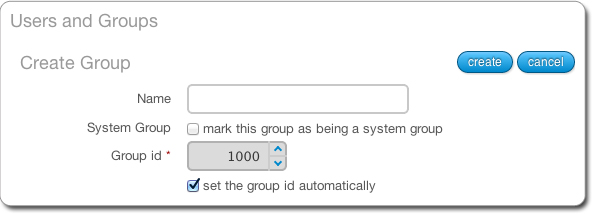
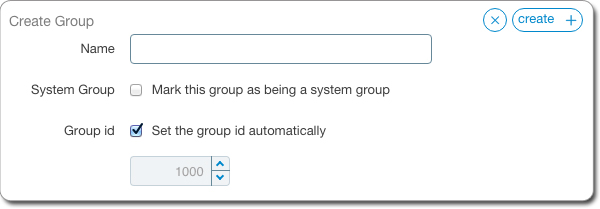
adding the files cherry-picked from 3.5.1 for install profile screen modifs

diff --git a/end-user/en/source/pages/templating/appliance-installprofile.rst b/end-user/en/source/pages/templating/appliance-installprofile.rst
@@ -11,13 +11,20 @@ You can define the following as part of the install profile:
 
 * ``Root User``: The root user password by default is prompted during the first boot of the machine image i.e. ``ask during installation``. However, you can pre-set a root  password. You can all enter an SSH key to allow users to login as root. If you select ``Disable root password login via SSH``, root will still be able to login from the console.
 * ``Users and Groups`` (optional): you can add operating system users and groups. See :ref:`appliance-install-profile-users-groups` for more information
+<<<<<<< HEAD
 * ``Internet Settings``: default is “set automatically”
 * ``Partitioning``: default is “set automatically”. You can modify the disk and swap size for the automatic set up, ask during install, or set up ``Advanced Partitioning`` (for several disks). Note that the swap size should not be set to zero. Rather, it should be deleted. For more information see :ref:`appliance-install-profile-partitioning`.
 * ``Kernel Parameters``. You can add kernel parameters by clicking add and save.
 * ``Keyboard``: default is “ask during installation”
+=======
+* ``Network``: This managed the internet settings. The default is “set automatically”
+* ``Partitioning``: You can modify the disk and swap size for the automatic set up, select ``ask during install``, or set up ``Advanced Partitioning`` (for several disks). For more information see :ref:`appliance-install-profile-partitioning`.
+* ``Kernel``. You can add kernel parameters by clicking plus, entering data and click ``save``.
+* ``Keyboard``: default is “ask during installation”. You can choose ``set automatically`` and select the keyboard from the drop down menu.
+>>>>>>> f885422... adding new screenshots for 3.6 for install profile
 * ``Licenses``: default is “accept licenses during installation”
-* ``Time Zone``: default is “set automatically to London”
-* ``Welcome Message``
+* ``Time Zone``: default is set automatically to London
+* ``Welcome Message``: You can enter a welcome message.
 * ``Services``: Firewall is set to "Off" by default. This parameter allows you to activate or deactivate the firewall present in the filesystem when launching the appliance (regardless of whether the firewall is iptables or other).
 
 .. _appliance-install-profile-users-groups:
@@ -34,7 +41,7 @@ To add a user to an appliance:
 	1. Select the appliance template you want to modify.
 	2. From the ``Stack`` page, click on ``Install Profile`` in the toolbox.
 	3. Select ``Users and Groups``.
-	4. Click ``add``, next to the top table. The ``Create User`` page will be displayed.
+	4. Click the plus symbol next to the ``Users`` table. The ``Create User`` page will be displayed.
 
 	.. image :: /images/install-profile-create-user.jpg
 
@@ -51,12 +58,12 @@ To add a group to an appliance install profile:
 	1. Select the appliance template you want to modify.
 	2. From the ``Stack`` page, click on ``Install Profile`` in the toolbox.
 	3. Select ``Users and Groups``.
-	4. Click on ``add`` next to Group table at the bottom. The ``Create Group`` page will be displayed.
+	4. Click the plus symbol next to the ``Group`` table. The ``Create Group`` page will be displayed.
 
 	.. image:: /images/install-profile-create-group.jpg
 
 	5. Enter a group name.
 	6. Check if you want this group to be a system group.
-	7. If you want to manually enter the group ID, deselect ``set the group id automatically`` and enter the group ID number.
+	7. If you want to manually enter the group ID, deselect ``Set the group id automatically`` and enter the group ID number.
 	8. Click ``create``.
 

diff --git a/end-user/en/source/pages/templating/appliance-software.rst b/end-user/en/source/pages/templating/appliance-software.rst
@@ -68,12 +68,29 @@ To add custom software components to an appliance:
 
 	.. image:: /images/adding-mysoftware2.jpg
 
+<<<<<<< HEAD
 	7. Optionally, you can modify the ``default install path`` that will be used. If you have modified the name of your appliance, it may not be reflected in the install path.
 	8. By default ``.deb`` and ``.rpm`` files will be installed at generation time. Optionally you can edit the settings for those files. Click on the pencil on the right hand side of your uploaded file and un-select ``Install this native package as part of the generation``. Click save. In this case, the ``.deb`` or ``.rpm`` archive file will just be in the directory but will not be installed at generation time.
 	9. Optionally, you can select to unzip archives as part of the generation. To do so: 
 	    - Click on the pencil on the right hand side of your uploaded file. 
 	    - You can then edit the install path and select if it should be extracted. 
 	    - Click the check mark to save.
+=======
+	6. Optionally, you can modify the ``default install path`` that will be used. If you have modified the name of your appliance, it may not be reflected in the install path.
+	7. By default ``.deb`` and ``.rpm`` files will be installed at generation time. Optionally you can edit the settings for those files: 
+		- Click on the pencil on the right hand side of your uploaded file.
+		- Un-select ``Install this native package as part of the generation``. 
+		- Click the check mark to save your changes. 
+	
+	In this case, the ``.deb`` or ``.rpm`` archive file will just be in the directory but will not be installed at generation time.
+
+	.. image:: /images/install-mysoftware-gen.jpg
+
+	8. Optionally, you can select to unzip archives as part of the generation. To do so: 
+	    - Click on the pencil on the right hand side of your uploaded file. 
+	    - You can then edit the install path and select if it should be extracted. 
+	    - Click the check mark to save your changes.
+>>>>>>> f885422... adding new screenshots for 3.6 for install profile
 
 	.. image:: /images/extract-mysoftware.jpg
 

diff --git a/end-user/en/source/pages/templating/appliance-advanced-partition.rst b/end-user/en/source/pages/templating/appliance-advanced-partition.rst
@@ -37,6 +37,8 @@ To set advanced partitioning for an appliance template:
 	    * logical group(s), assigning the associated physical extend (partition)
 	    * specify the logical volume specification for the created logical group(s)
 
+	    .. image:: /images/advanced-partitioning.jpg
+
 	5. Click on the arrow in ``Disks`` next to sda. You will see the default disks.
 
 	.. image:: /images/install-profile-partitioning-disks.jpg
